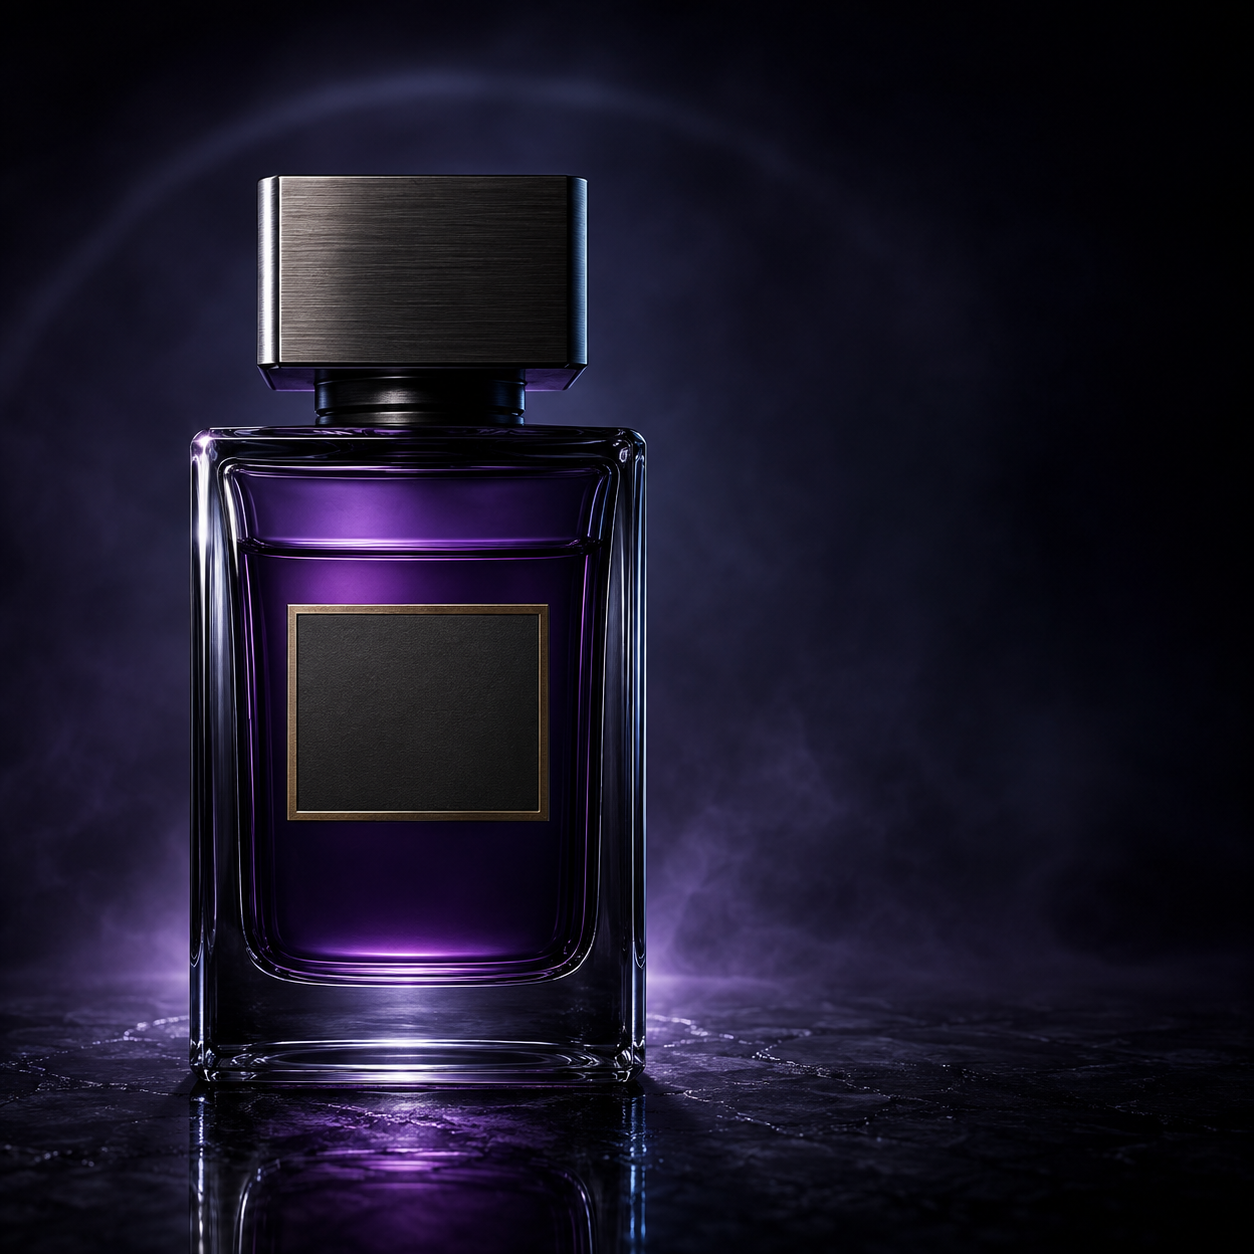
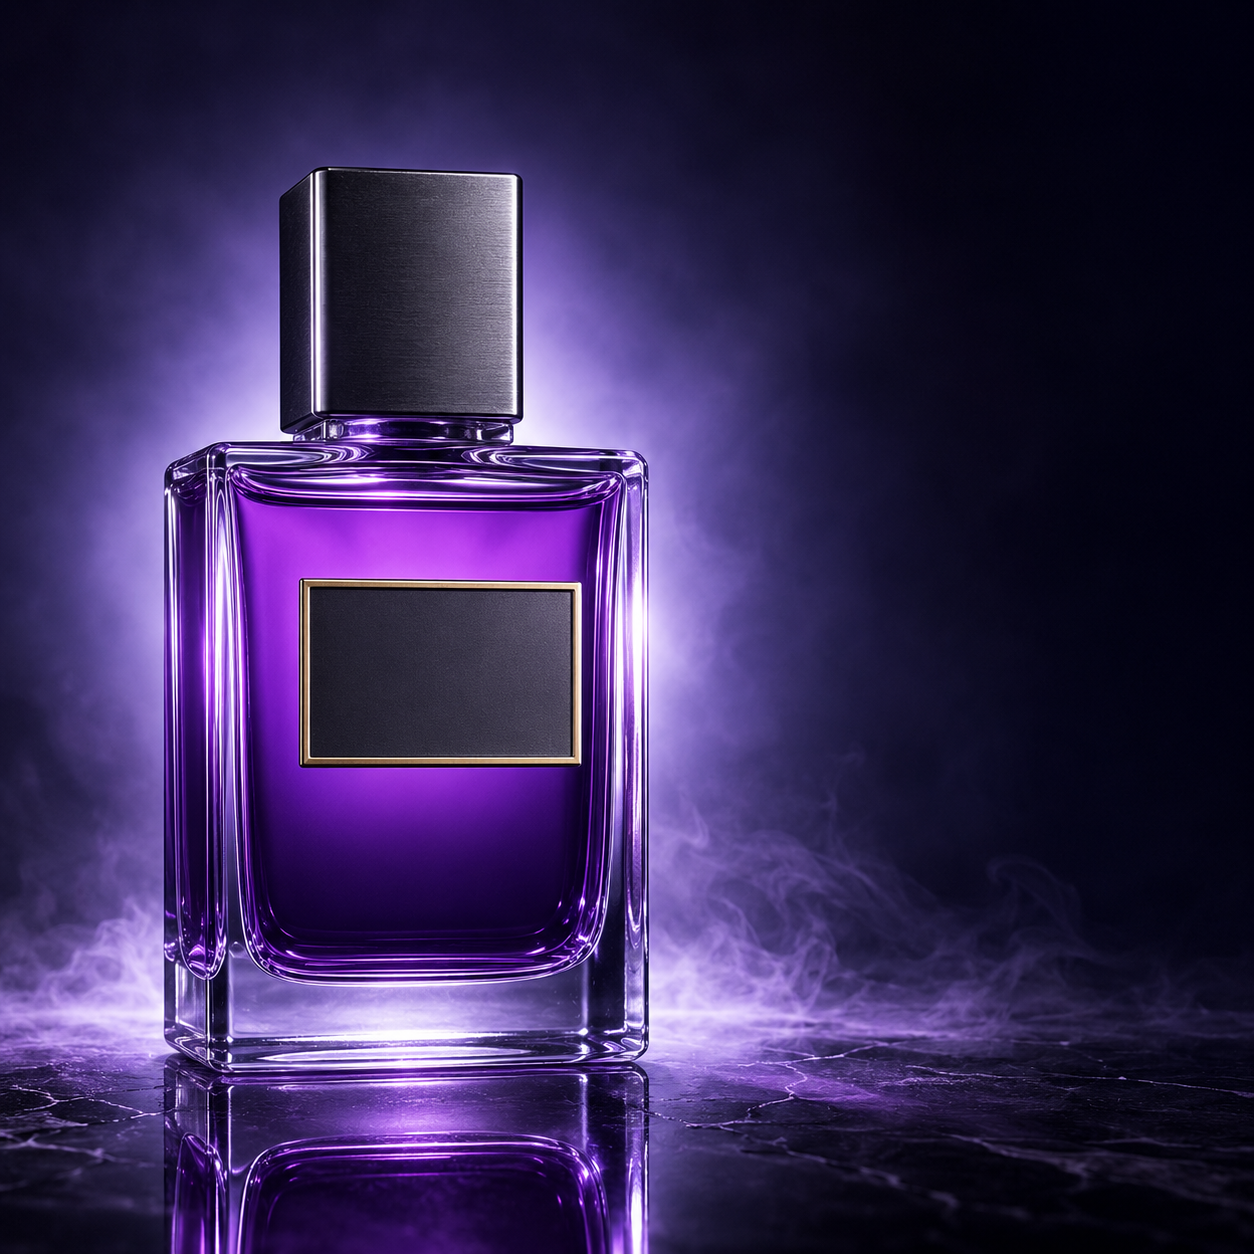
ad: SAMPLE-001 商品がはっきり見える明るいヒーロー写真に差し替え

diff --git a/ad/sample-001/index.html b/ad/sample-001/index.html
@@ -96,7 +96,7 @@ body{display:grid;place-items:center}
 }
 #bottleReflect svg{display:block;width:100%;height:auto}
 .asset-fill{position:absolute;inset:0;width:100%;height:100%;object-fit:contain}
-#bg .asset-fill{object-fit:cover;will-change:transform;filter:brightness(1.6) saturate(1.5)}
+#bg .asset-fill{object-fit:cover;will-change:transform}
 #bg .heroGlow{
   position:absolute;inset:0;mix-blend-mode:screen;pointer-events:none;
   background:
@@ -107,8 +107,8 @@ body{display:grid;place-items:center}
 
 /* 実写ヒーロー使用時のボトルラベル(空白ラベルに重ねるブランド文字) */
 #bottleLabel{
-  position:absolute;left:250px;top:517px;width:219px;height:185px;
-  display:none;flex-direction:column;align-items:center;justify-content:center;gap:12px;
+  position:absolute;left:262px;top:504px;width:240px;height:160px;
+  display:none;flex-direction:column;align-items:center;justify-content:center;gap:10px;
   pointer-events:none;
 }
 #bottleLabel .kanji{
@@ -136,7 +136,8 @@ body{display:grid;place-items:center}
   writing-mode:vertical-rl;
   font-family:var(--font-ui);font-weight:400;
   font-size:24px;line-height:2.3;letter-spacing:.18em;
-  color:rgba(232,226,212,.82);
+  color:rgba(232,226,212,.88);
+  text-shadow:0 1px 14px rgba(5,4,10,.75);
 }
 #brand{
   position:absolute;left:84px;bottom:96px;
@@ -145,10 +146,12 @@ body{display:grid;place-items:center}
 #brand .kanji{
   font-family:var(--font-display);font-weight:800;
   font-size:54px;letter-spacing:.3em;color:var(--moon);
+  text-shadow:0 2px 22px rgba(5,4,10,.95), 0 0 34px rgba(5,4,10,.8);
 }
 #brand .latin{
   font-family:var(--font-ui);font-weight:500;
   font-size:16px;letter-spacing:.42em;color:var(--brass);
+  text-shadow:0 1px 12px rgba(5,4,10,.9), 0 0 26px rgba(5,4,10,.7);
 }
 
 /* ============ L7: badge ============ */
@@ -384,10 +387,6 @@ body{display:grid;place-items:center}
     wrap.appendChild(img);
   }
   if(heroMode){
-    const glow = document.createElement("div");
-    glow.className = "heroGlow";
-    const grain = document.querySelector("#bg .grain");
-    document.getElementById("bg").insertBefore(glow, grain); // 写真の上・粒状感の下
     ["moonbow","bottleWrap","bottleReflect"].forEach(id=>{ document.getElementById(id).style.display = "none"; });
     const halo = document.querySelector("#ambient .halo");
     if(halo) halo.style.display = "none"; // 写真自身の月暈があるため
